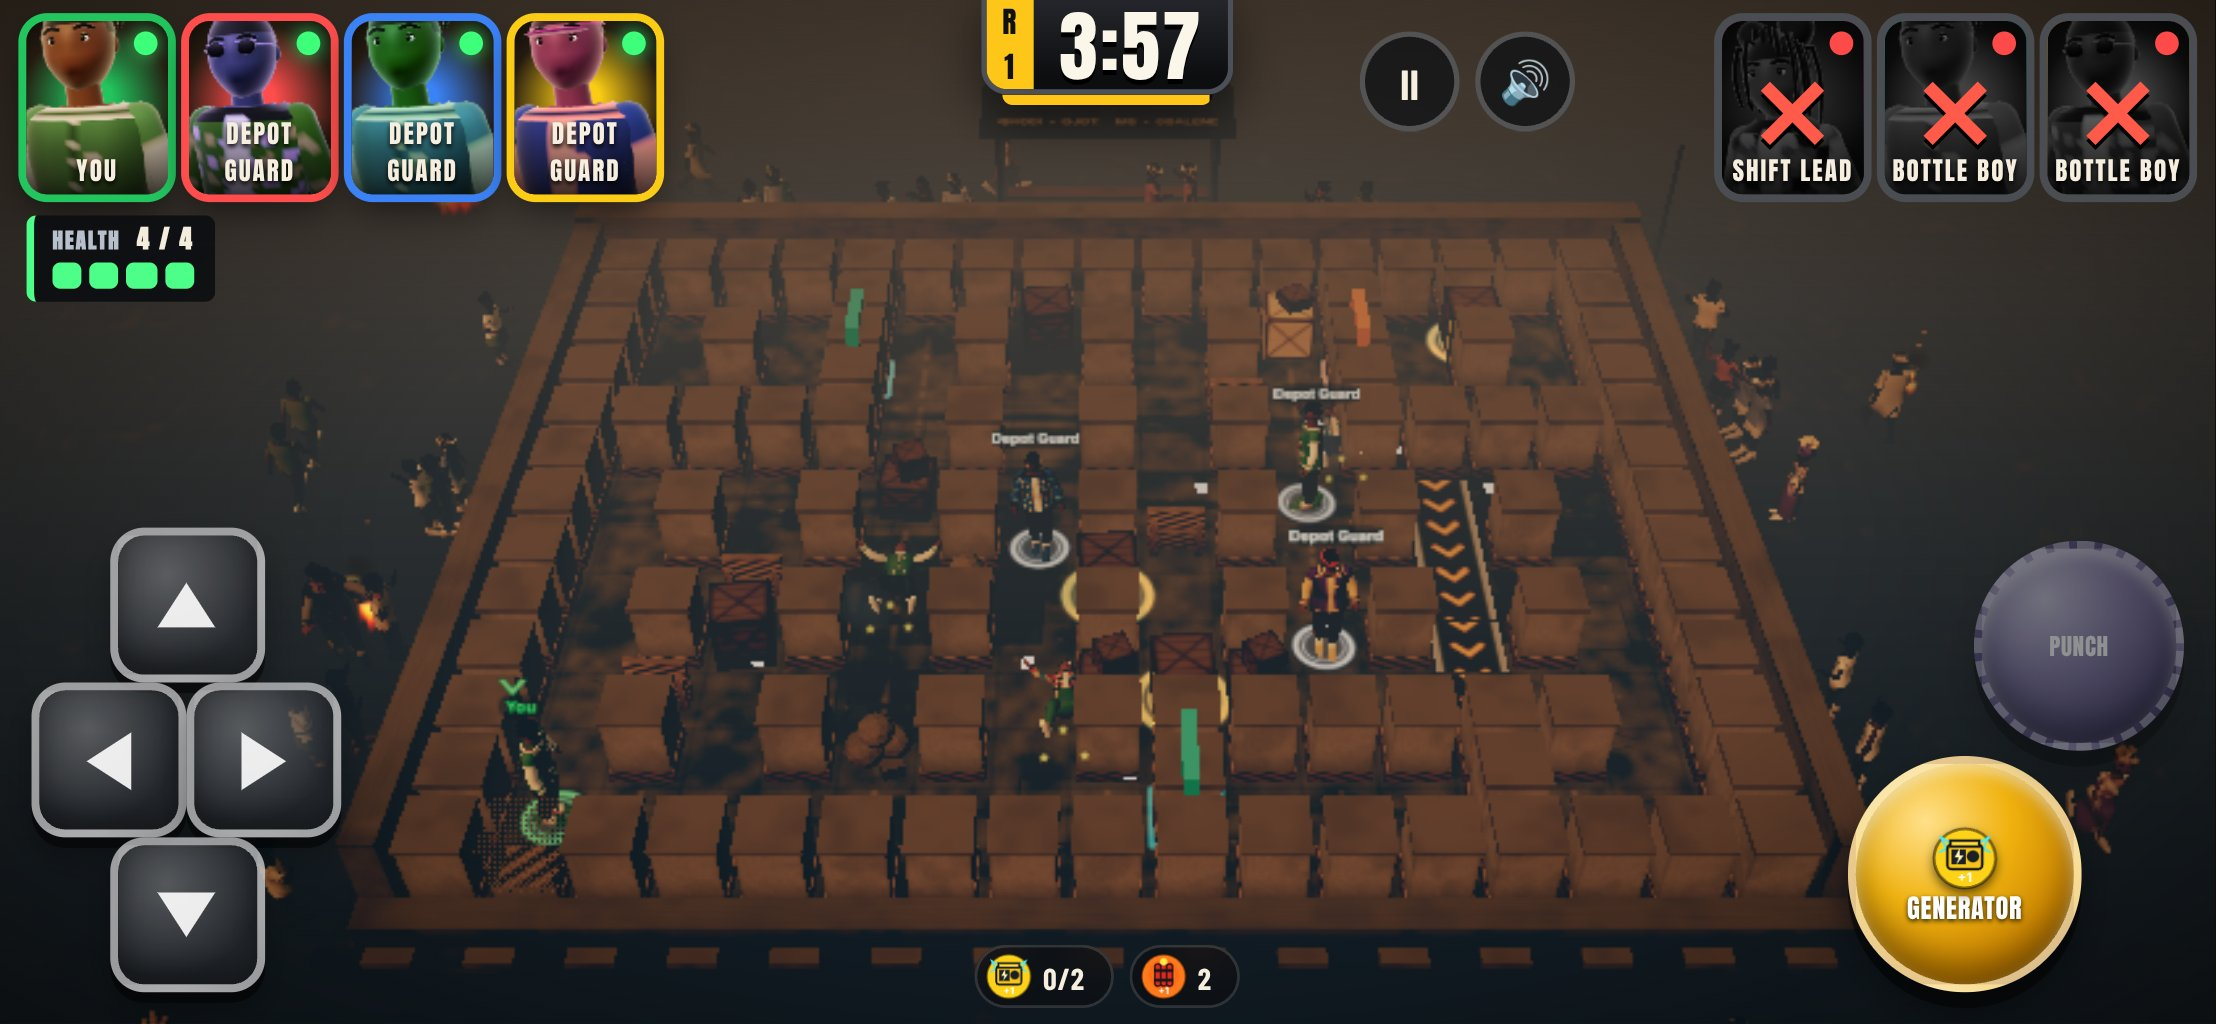
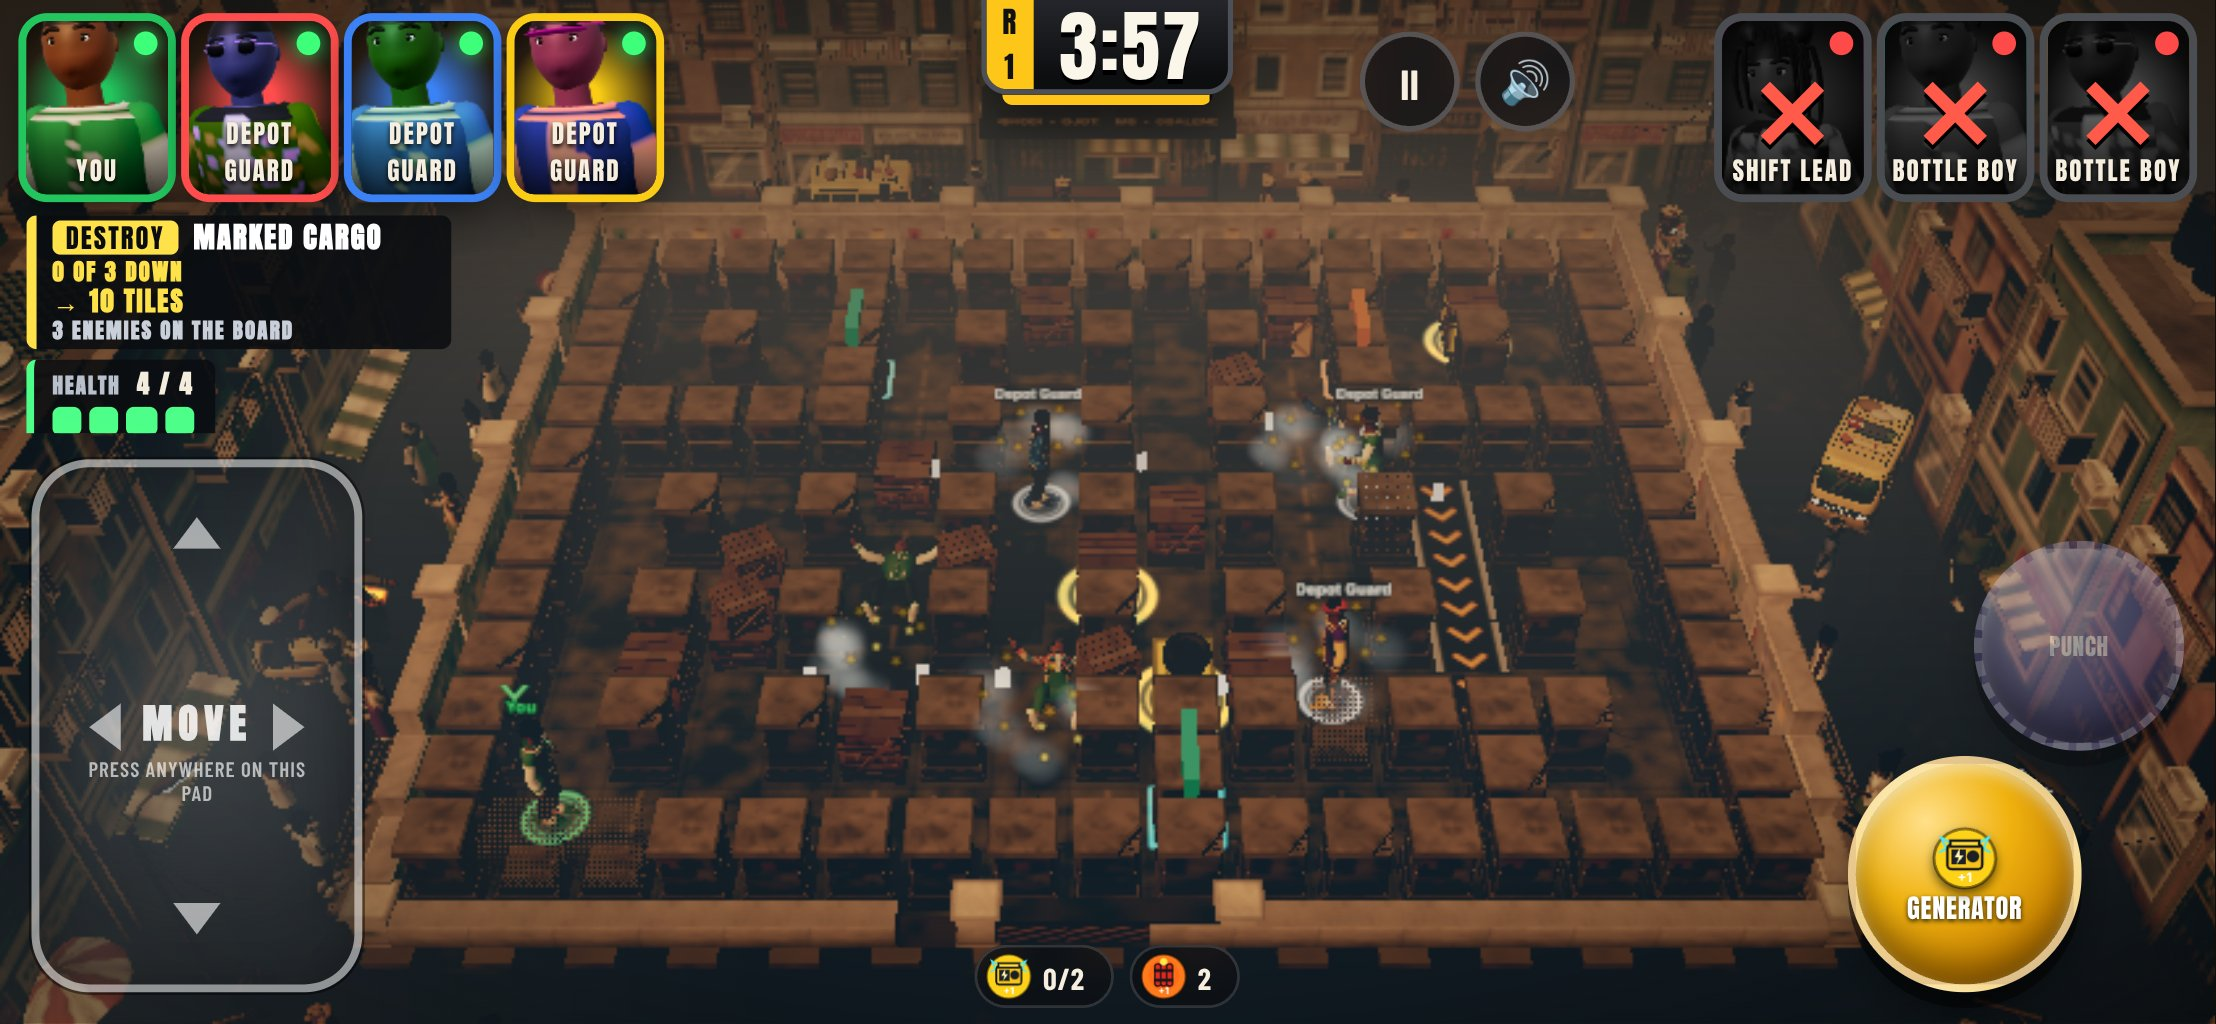
Integration: stick specs drive time with stepTicks only; rail check uses the board edge at the block's own row
Merged playtest polish branches (Sudden Death test match, raid touch navigation, notices off-centre + view-clear fade,
combat lab feedback) onto the verified release da66051. Two browser specs written for the raid stick failed on a slow
software renderer for test reasons only: they let the real loop run while the thumb was down (a held stick walks, so
several tiles resulted), and one compared the objective block with the board's NEAR corner instead of the board edge at
the block's lowest row (what the rail is sized for). Both now freeze the loop and use stepTicks / the edge at that row.
No product code change.

Claude-Session: https://claude.ai/code/session_01QeTP4yfJfvzQ1TfQbTJU26

diff --git a/e2e/raid-render.spec.ts b/e2e/raid-render.spec.ts
@@ -130,13 +130,17 @@ test.describe('raid presentation', () => {
         (window as unknown as Debug).__WAHALA__.renderer().boardScreenCorners(),
       );
       expect(corners).not.toBeNull();
-      expect(goal.right, 'the objective block reaches into the board').toBeLessThanOrEqual(
-        corners![3]!.x + 2,
-      );
+      // the board's left edge slants (narrower rows near the bottom): the block must stay left of the edge at ITS OWN
+      // lowest row, which is what the rail is sized for (not of the near corner, which is far below it)
+      const [far, near] = [corners![0]!, corners![3]!];
+      const edgeAtBottom = far.x + ((near.x - far.x) * (goal.bottom - far.y)) / (near.y - far.y);
+      expect(goal.right, 'the objective block reaches into the board').toBeLessThanOrEqual(edgeAtBottom + 2);
       expect(hits(goal, pad), 'the objective block overlaps the pad').toBe(false);
       for (const id of ['btn-place', 'btn-special'])
         expect(hits(goal, (await rectOf(page, `[data-testid="${id}"]`))!)).toBe(false);
-      // a press moves exactly one tile
+      // a press moves exactly one tile. Only `stepTicks` advances time while the thumb is down: on a software renderer the
+      // real loop would tick many times between the pointer events and walk several tiles (a held stick walks)
+      await page.evaluate(() => ((window as unknown as Debug).__WAHALA__.controller().frozen = true));
       const before = await page.evaluate(() => {
         const p = (window as unknown as Debug).__WAHALA__.controller().state.players[0]!;
         return { x: p.x, y: p.y };

diff --git a/e2e/campaign-expansion-smoke.spec.ts b/e2e/campaign-expansion-smoke.spec.ts
@@ -385,6 +385,9 @@ test.describe('campaign expansion smoke', () => {
       const d = dirs.find(([, dx, dy]) => free(me.x + dx, me.y + dy))!;
       return { name: d[0], dx: d[1], dy: d[2], x: me.x, y: me.y };
     })) as any;
+    // only `stepTicks` advances time while the thumb is down (a held stick walks; a slow software renderer would tick
+    // the real loop many times between the pointer events)
+    await page.evaluate(() => ((window as any).__WAHALA__.controller().frozen = true));
     await thumb(page, dir.name as 'up' | 'down' | 'left' | 'right', 3, { dist: 40 });
     await page.evaluate(() => (window as any).__WAHALA__.stepTicks(30));
     const now = (await state(page, `s => ({ x: s.players[0].x, y: s.players[0].y })`)) as any;
